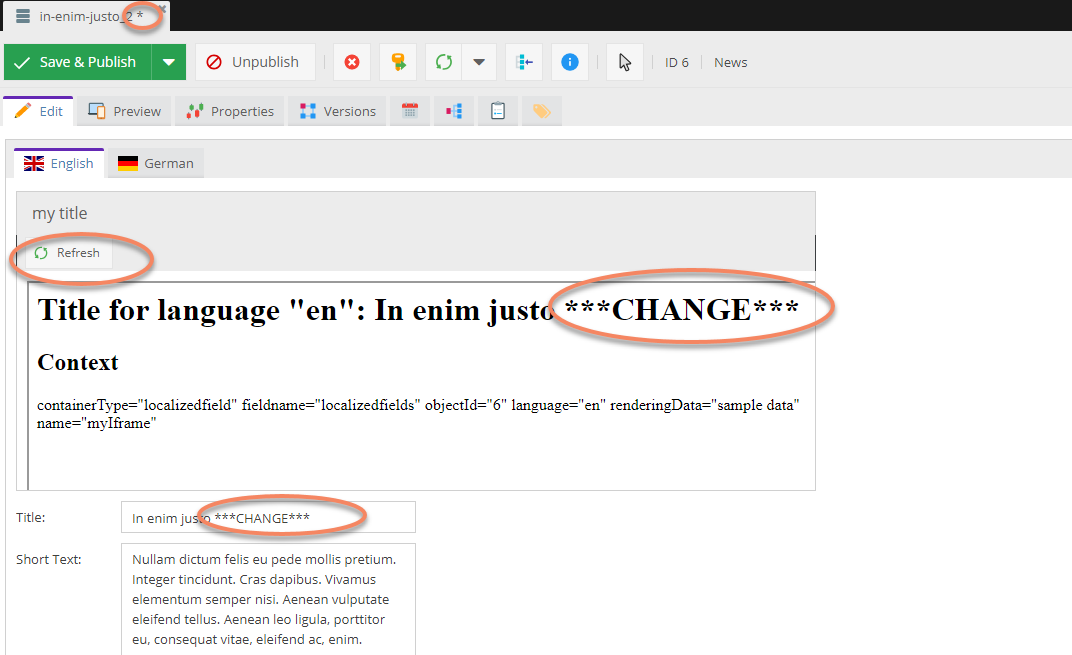
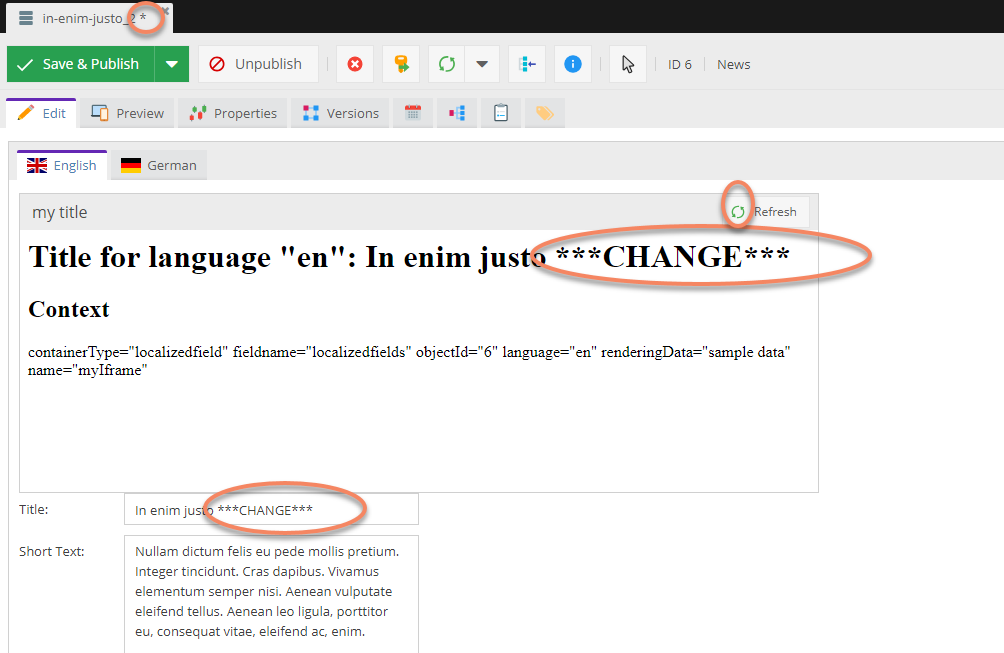
[Objects] New Layout Component: Preview Panel #2948 - refinements

diff --git a/web/pimcore/static6/js/pimcore/object/layout/iframe.js b/web/pimcore/static6/js/pimcore/object/layout/iframe.js
@@ -29,35 +29,40 @@ pimcore.object.layout.iframe = Class.create(pimcore.object.abstract, {
         var html = '<iframe src="' + this.config.iframeUrl + "?" + queryString + '"frameborder="0" width="100%" height="' + (this.config.height - 90) + '"></iframe>';
 
         this.component = new Ext.Panel({
-            title: this.config.title,
             border: true,
             cls: "pimcore_layout_iframe_border",
             height: this.config.height,
             width: this.config.width,
             scrollable: true,
             html: html,
-            tbar: [
-                {
-                    xtype: 'button',
-                    text: t('refresh'),
-                    iconCls: 'pimcore_icon_reload',
-                    handler: function () {
-                        var key = "object_" + this.context.objectId;
+            tbar: {
+                items: [
+                    {
+                        xtype: "tbtext",
+                        text: this.config.title
+                    }, "->",
+                    {
+                        xtype: 'button',
+                        text: t('refresh'),
+                        iconCls: 'pimcore_icon_reload',
+                        handler: function () {
+                            var key = "object_" + this.context.objectId;
 
-                        if (pimcore.globalmanager.exists(key)) {
-                            var objectTab = pimcore.globalmanager.get(key);
-                            objectTab.saveToSession(function() {
-                                console.log("done");
-                                this.component.setHtml(html);
-                            }.bind(this));
+                            if (pimcore.globalmanager.exists(key)) {
+                                var objectTab = pimcore.globalmanager.get(key);
+                                objectTab.saveToSession(function () {
+                                    console.log("done");
+                                    this.component.setHtml(html);
+                                }.bind(this));
 
 
-                        }
+                            }
 
 
-                    }.bind(this)
-                }
-            ]
+                        }.bind(this)
+                    }
+                ]
+            }
         });
         return this.component;
 
